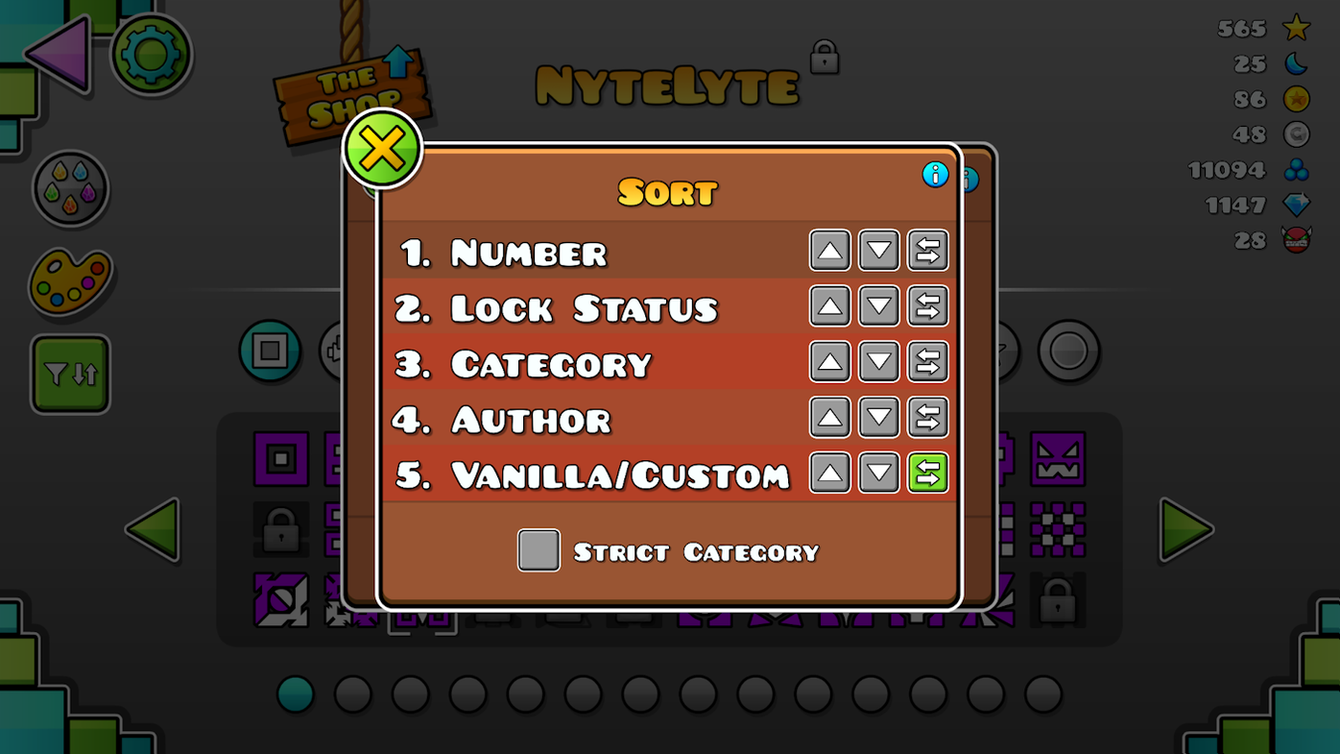
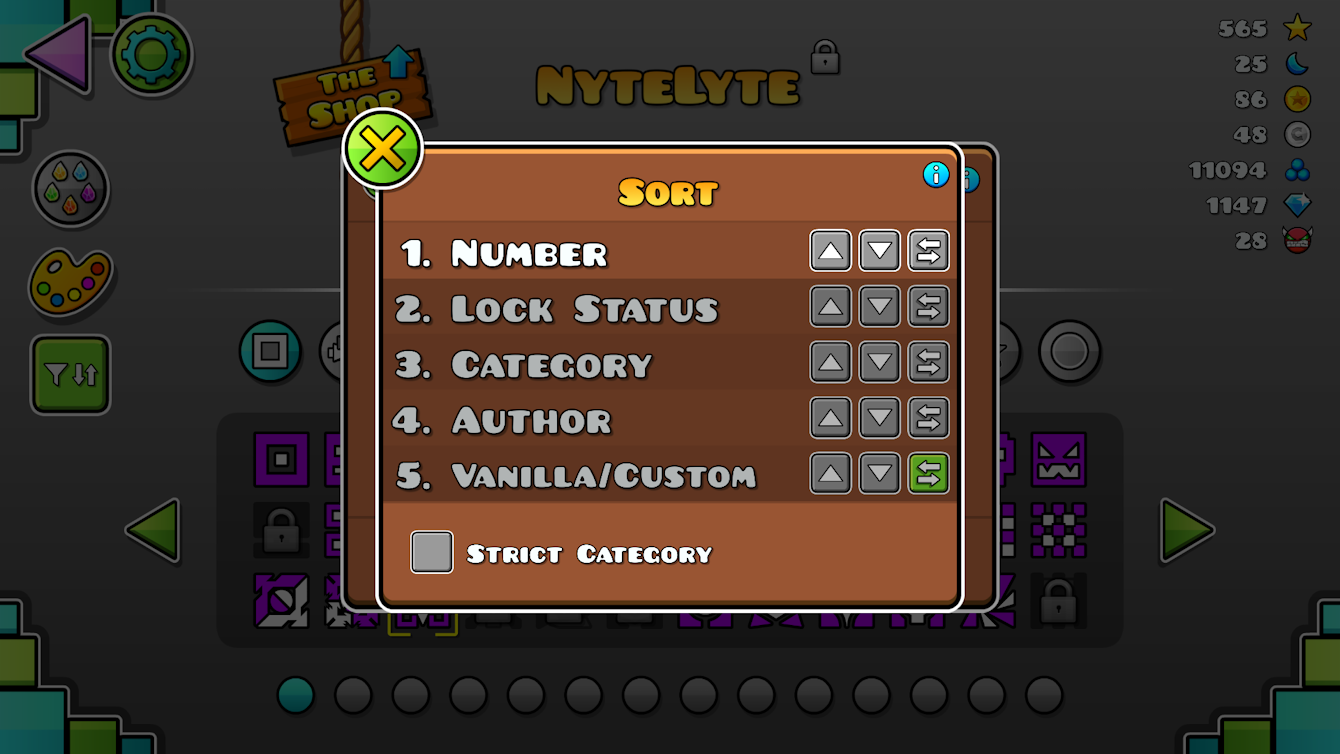
accidentally used an outdated sort example

diff --git a/changelog.md b/changelog.md
@@ -1,3 +1,7 @@
+# v1.0.1
+
+- fixed accidentally using outdated sort example
+
 # v1.0.0
 
 - initial release
